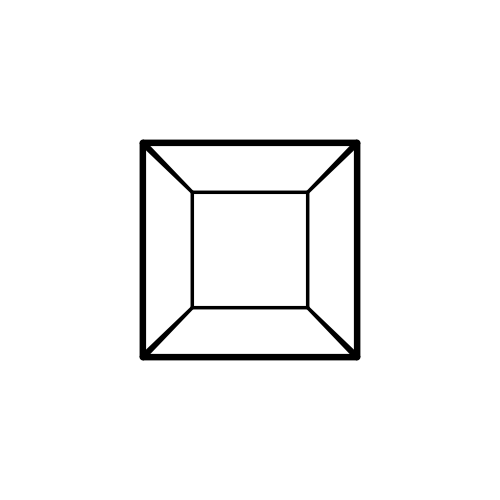
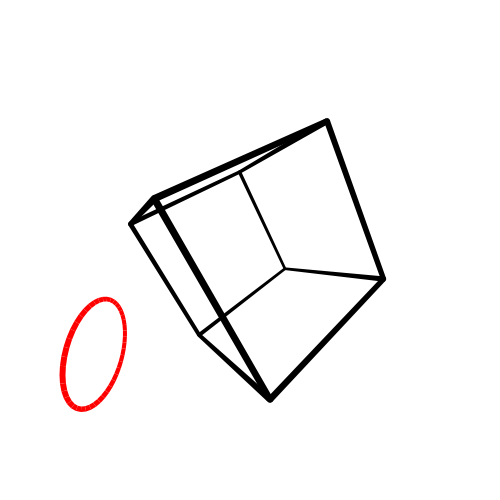
pinhole example2.go

Changed region(s): [[0.12, 0.24, 0.78, 0.84], [0.51, 0.42, 0.54, 0.48]]

diff --git a/src/pinhole/examples/example2.go b/src/pinhole/examples/example2.go
@@ -1,0 +1,21 @@
+package main
+
+import (
+	"github.com/tidwall/pinhole"
+	"image/color"
+	"math"
+)
+
+func main() {
+	p := pinhole.New()
+	p.DrawCube(-0.3, -0.3, -0.3, 0.3, 0.3, 0.3)
+	p.Rotate(math.Pi/3, math.Pi/3, 0)
+
+	p.Begin()
+	p.DrawCircle(0, 0, 0, 0.2)
+	p.Rotate(0, math.Pi/2, 0)
+	p.Translate(-0.6, -0.4, 0)
+	p.Colorize(color.RGBA{255, 0, 0, 255})
+	p.End()
+	p.SavePNG("cube.png", 500, 500, nil)
+}
